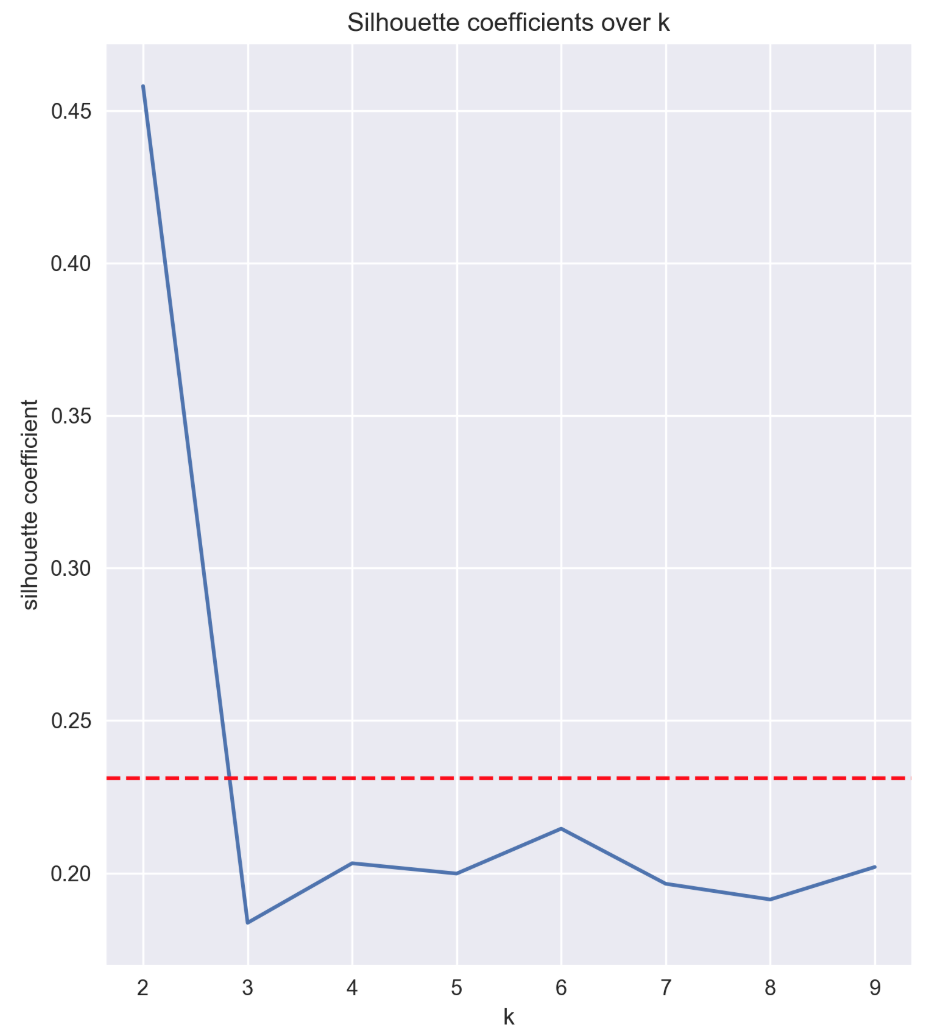
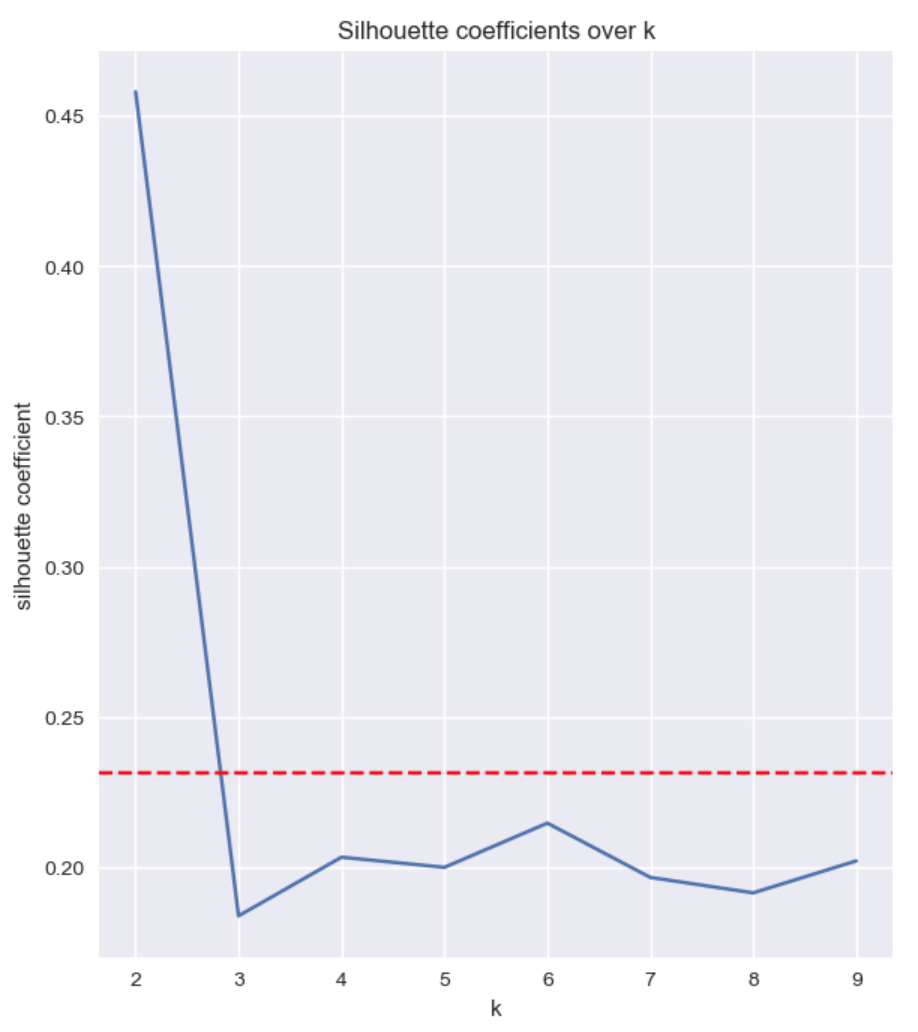
reformatting images

diff --git a/Clustering_helper_functions.py b/Clustering_helper_functions.py
@@ -55,7 +55,7 @@ def check_k_means(df_scaled):
         distorsions.append(kmeans.inertia_)
 
     # Plot values of SSE
-    plt.figure(figsize=(15,8),dpi=75)
+    plt.figure(figsize=(15,8),dpi=100)
     plt.subplot(121, title='Elbow curve')
     plt.xlabel('k')
     plt.ylabel('WSS')
@@ -71,7 +71,7 @@ def check_k_means(df_scaled):
         silhouette_avg = silhouette_score(X, cluster_labels)
         silhouette_plot.append(silhouette_avg)
     # Plot Silhouette coefficient
-    plt.figure(figsize=(15,8), dpi=75)
+    plt.figure(figsize=(15,8), dpi=100)
     plt.subplot(121, title='Silhouette coefficients over k')
     plt.xlabel('k')
     plt.ylabel('silhouette coefficient')
